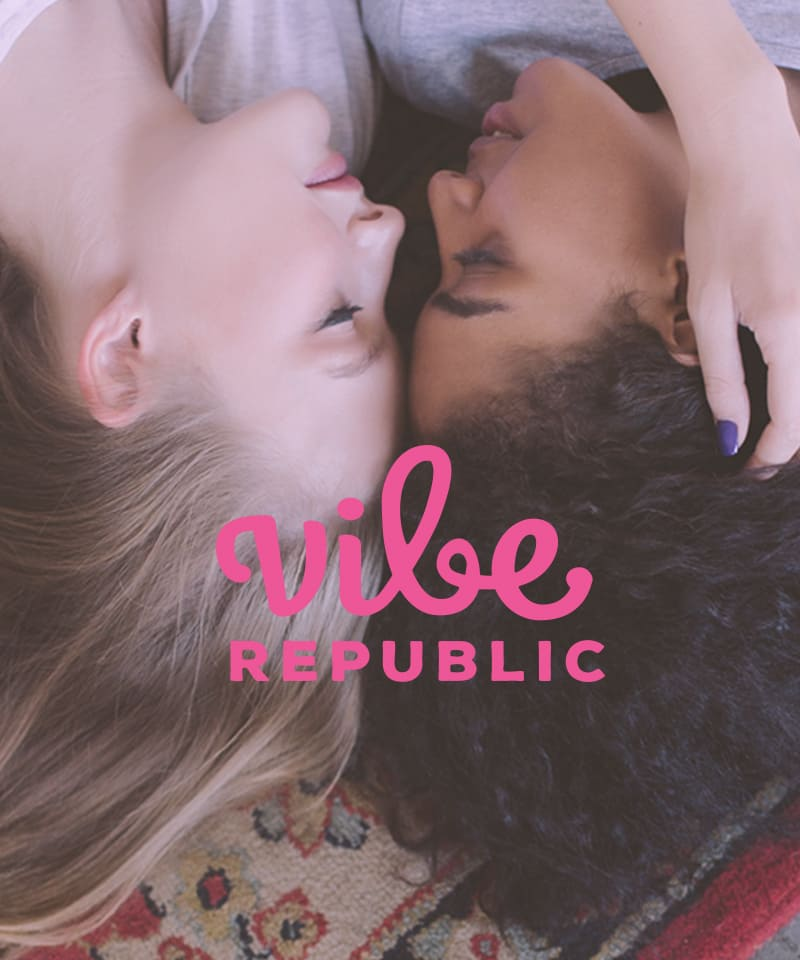
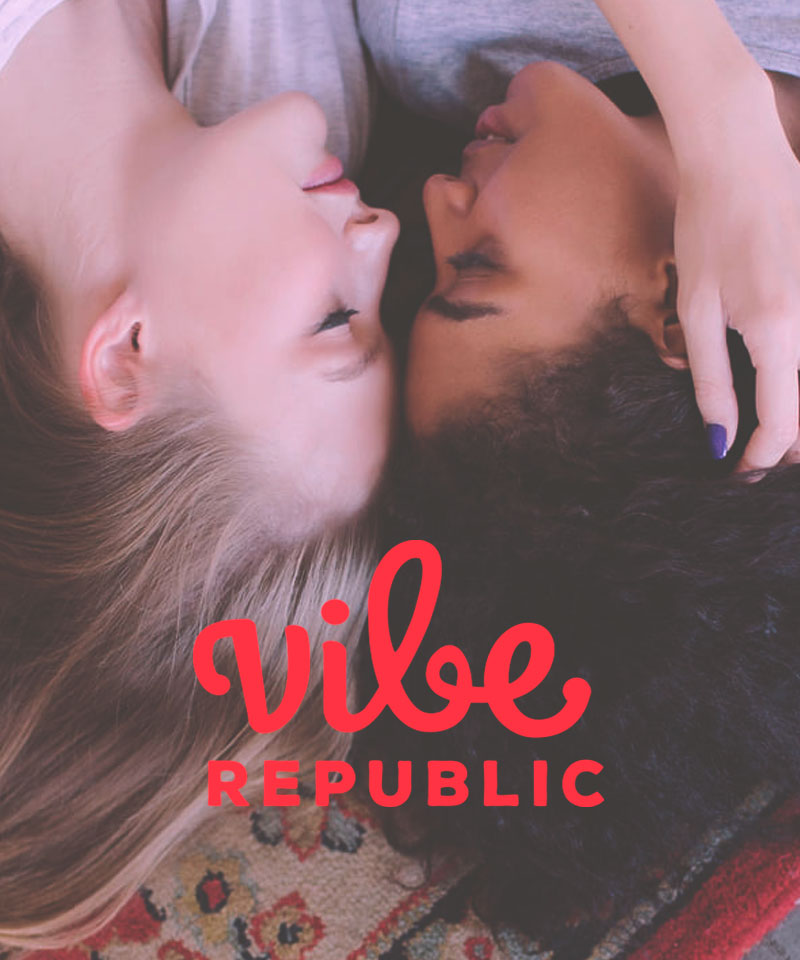
change project

diff --git a/project1.html b/project1.html
@@ -104,8 +104,8 @@
 						<div class="container">		
 							<div class="nine columns">	
 								<div class="section-big-header-text">	
-									<h3>Vibe Republic<span style="color:rgb(255, 115, 176)">.</span></h3>	
-									<div class="line-big-header" style="background: rgb(255, 115, 176)"></div>
+									<h3>Vibe Republic<span>.</span></h3>	
+									<div class="line-big-header"></div>
 									<p>Erotic toys Vibe Republic, is a brand of vibrators mainly for women.
                                     It differs from the rest as a casual, fun and fresh brand that treats sex as something natural.</p> 
 								</div>
@@ -132,7 +132,7 @@
 					<div class="section-in white-back padding-top-bottom shadow-sec">
 					
 						<div class="gallery-image-wrap">
-							<div class="item-one-half" style="background:#ff73b0">	
+							<div class="item-one-half" style="background:#e93444">	
 								<p><strong>Goals</strong><br>
 								
                                     -Arriving to new points of sale in order to expand the market: Pharmacies, gas stations, hotels, supermarkets.<br>
@@ -151,6 +151,9 @@
 							</div>	
 							<div class="item-one-half">	
 								<img src="images/1/project-2.jpg" alt="">	
+							</div>
+							<div class="item-one-half">	
+								<img src="images/1/5.jpg" alt="">	
 							</div>
 							<div class="item-one-half">	
 								<img src="images/1/projec3.jpg" alt="">	
